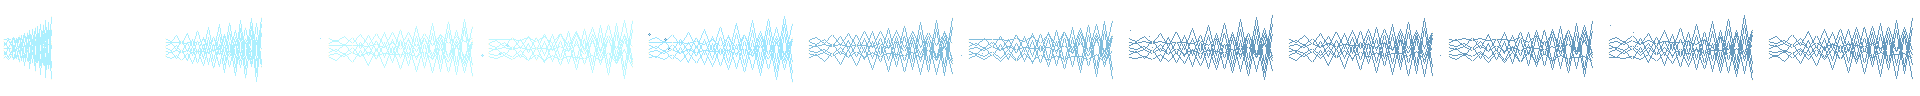
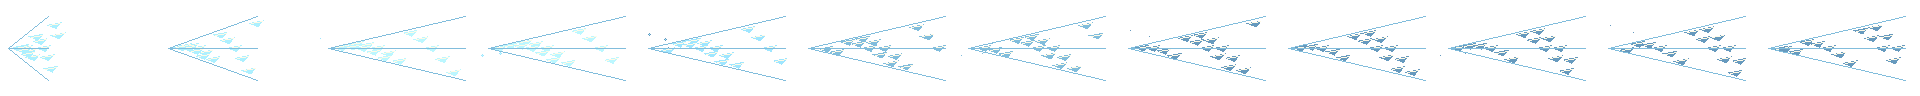
art(tactics): distinguish ice crystals, lightning forks and poison spray
Verify aimed damage spells differ in uncoloured geometry and motion, then retake their real native footage.

Session: combat-vfx-247

Changed region(s): [[0.0625, 0.2188, 1.0, 0.8125], [0.0, 0.25, 0.0312, 0.75]]

diff --git a/tools/tactics-assets/parts/wizard_fx.py b/tools/tactics-assets/parts/wizard_fx.py
@@ -61,14 +61,35 @@ def frames(name, shot=False):
                 c.polygon([(35,y),(26,y-3),(21,y),(26,y+3)],main,5)
                 line(5+(i+j)%4,y,24,y,3);c.px(31,y,core,5)
         elif shape in BEAMS:
-            for j in range(7 if 'cone' in shape else 4):
-                y=cy+(j-3)*3;points=[]
-                for x in range(8,153,8):
-                    spread=(x/6 if 'cone' in shape else 3)
-                    yy=y+math.sin(x*.4+j*2+i)*spread
-                    points.append((x*peak,yy))
-                for a,b in zip(points,points[1:]):line(*a,*b)
-                for x,y in points[::3]:c.px(x,y,core,5)
+            if shape=='spray':
+                for j in range(21):
+                    travel=((i*13+j*17)%140)/140
+                    x=10+travel*140*peak;y=cy+(j%7-3)*travel*9
+                    c.ellipse(x,y,1+j%3,1+j%2,main,shade)
+                    if j%3==0:line(x-5,y+1,x-2,y,2)
+            elif shape=='frost_cone':
+                for j in range(15):
+                    travel=((i*9+j*11)%125)/125
+                    x=18+travel*123*peak;y=cy+(j%5-2)*travel*13
+                    c.polygon([(x-8,y),(x+8,y-3),(x+2,y+4)],main,shade)
+                    line(x-5,y,x+6,y-2,5,core)
+                for j in (-1,0,1):line(8,cy,145*peak,cy+j*32,2)
+            elif shape=='lightning':
+                points=[(8,cy)]
+                for j,x in enumerate(range(20,153,12)):
+                    points.append((x*peak,cy+((j*13+i*7)%17-8)))
+                for j,(a,b) in enumerate(zip(points,points[1:])):
+                    line(*a,*b,5,core)
+                    if j%3==1:
+                        x,y=b;line(x,y,x+10,y-9-j%4);line(x+10,y-9-j%4,x+19,y-5)
+            else:
+                for j in range(7):
+                    y=cy+(j-3)*3;points=[]
+                    for x in range(8,153,8):
+                        yy=y+math.sin(x*.4+j*2+i)*(x/6)
+                        points.append((x*peak,yy))
+                    for a,b in zip(points,points[1:]):line(*a,*b)
+                    for x,y in points[::3]:c.px(x,y,core,5)
         elif shape in ('ember','inferno','nova','crown','fire_ring','trident'):
             tongues=3 if small else 9 if shape!='crown' else 13
             for j in range(tongues):

diff --git a/tools/tactics-assets/test_wizard_fx.py b/tools/tactics-assets/test_wizard_fx.py
@@ -1,13 +1,18 @@
 """The shipped Wizard art must match a second deterministic native export."""
-import io,json,unittest
+import io,json,unittest,hashlib
 from pathlib import Path
 from PIL import Image
 from arcpix.out import PACK
 from parts import fx
-from parts.wizard_fx import DESIGNS
+from parts.wizard_fx import DESIGNS,frames
 from parts.wizard_casts import CASTS
 
 class WizardFxTests(unittest.TestCase):
+    def test_aimed_damage_spells_have_distinct_geometry_and_motion_before_colouring(self):
+        silhouettes={hashlib.sha256(b''.join(c.slot.tobytes() for c in frames(name))).digest()
+            for name in ('burning_hands','cone_of_cold','lightning_bolt','poison_spray')}
+        self.assertEqual(4,len(silhouettes))
+
     def test_all_sheets_are_byte_identical_to_their_native_generator(self):
         manifest=json.loads((PACK/'fx/manifest.json').read_text())
         entries=[e for e in fx.CATALOGUE if e.id.startswith('wizard_')]
